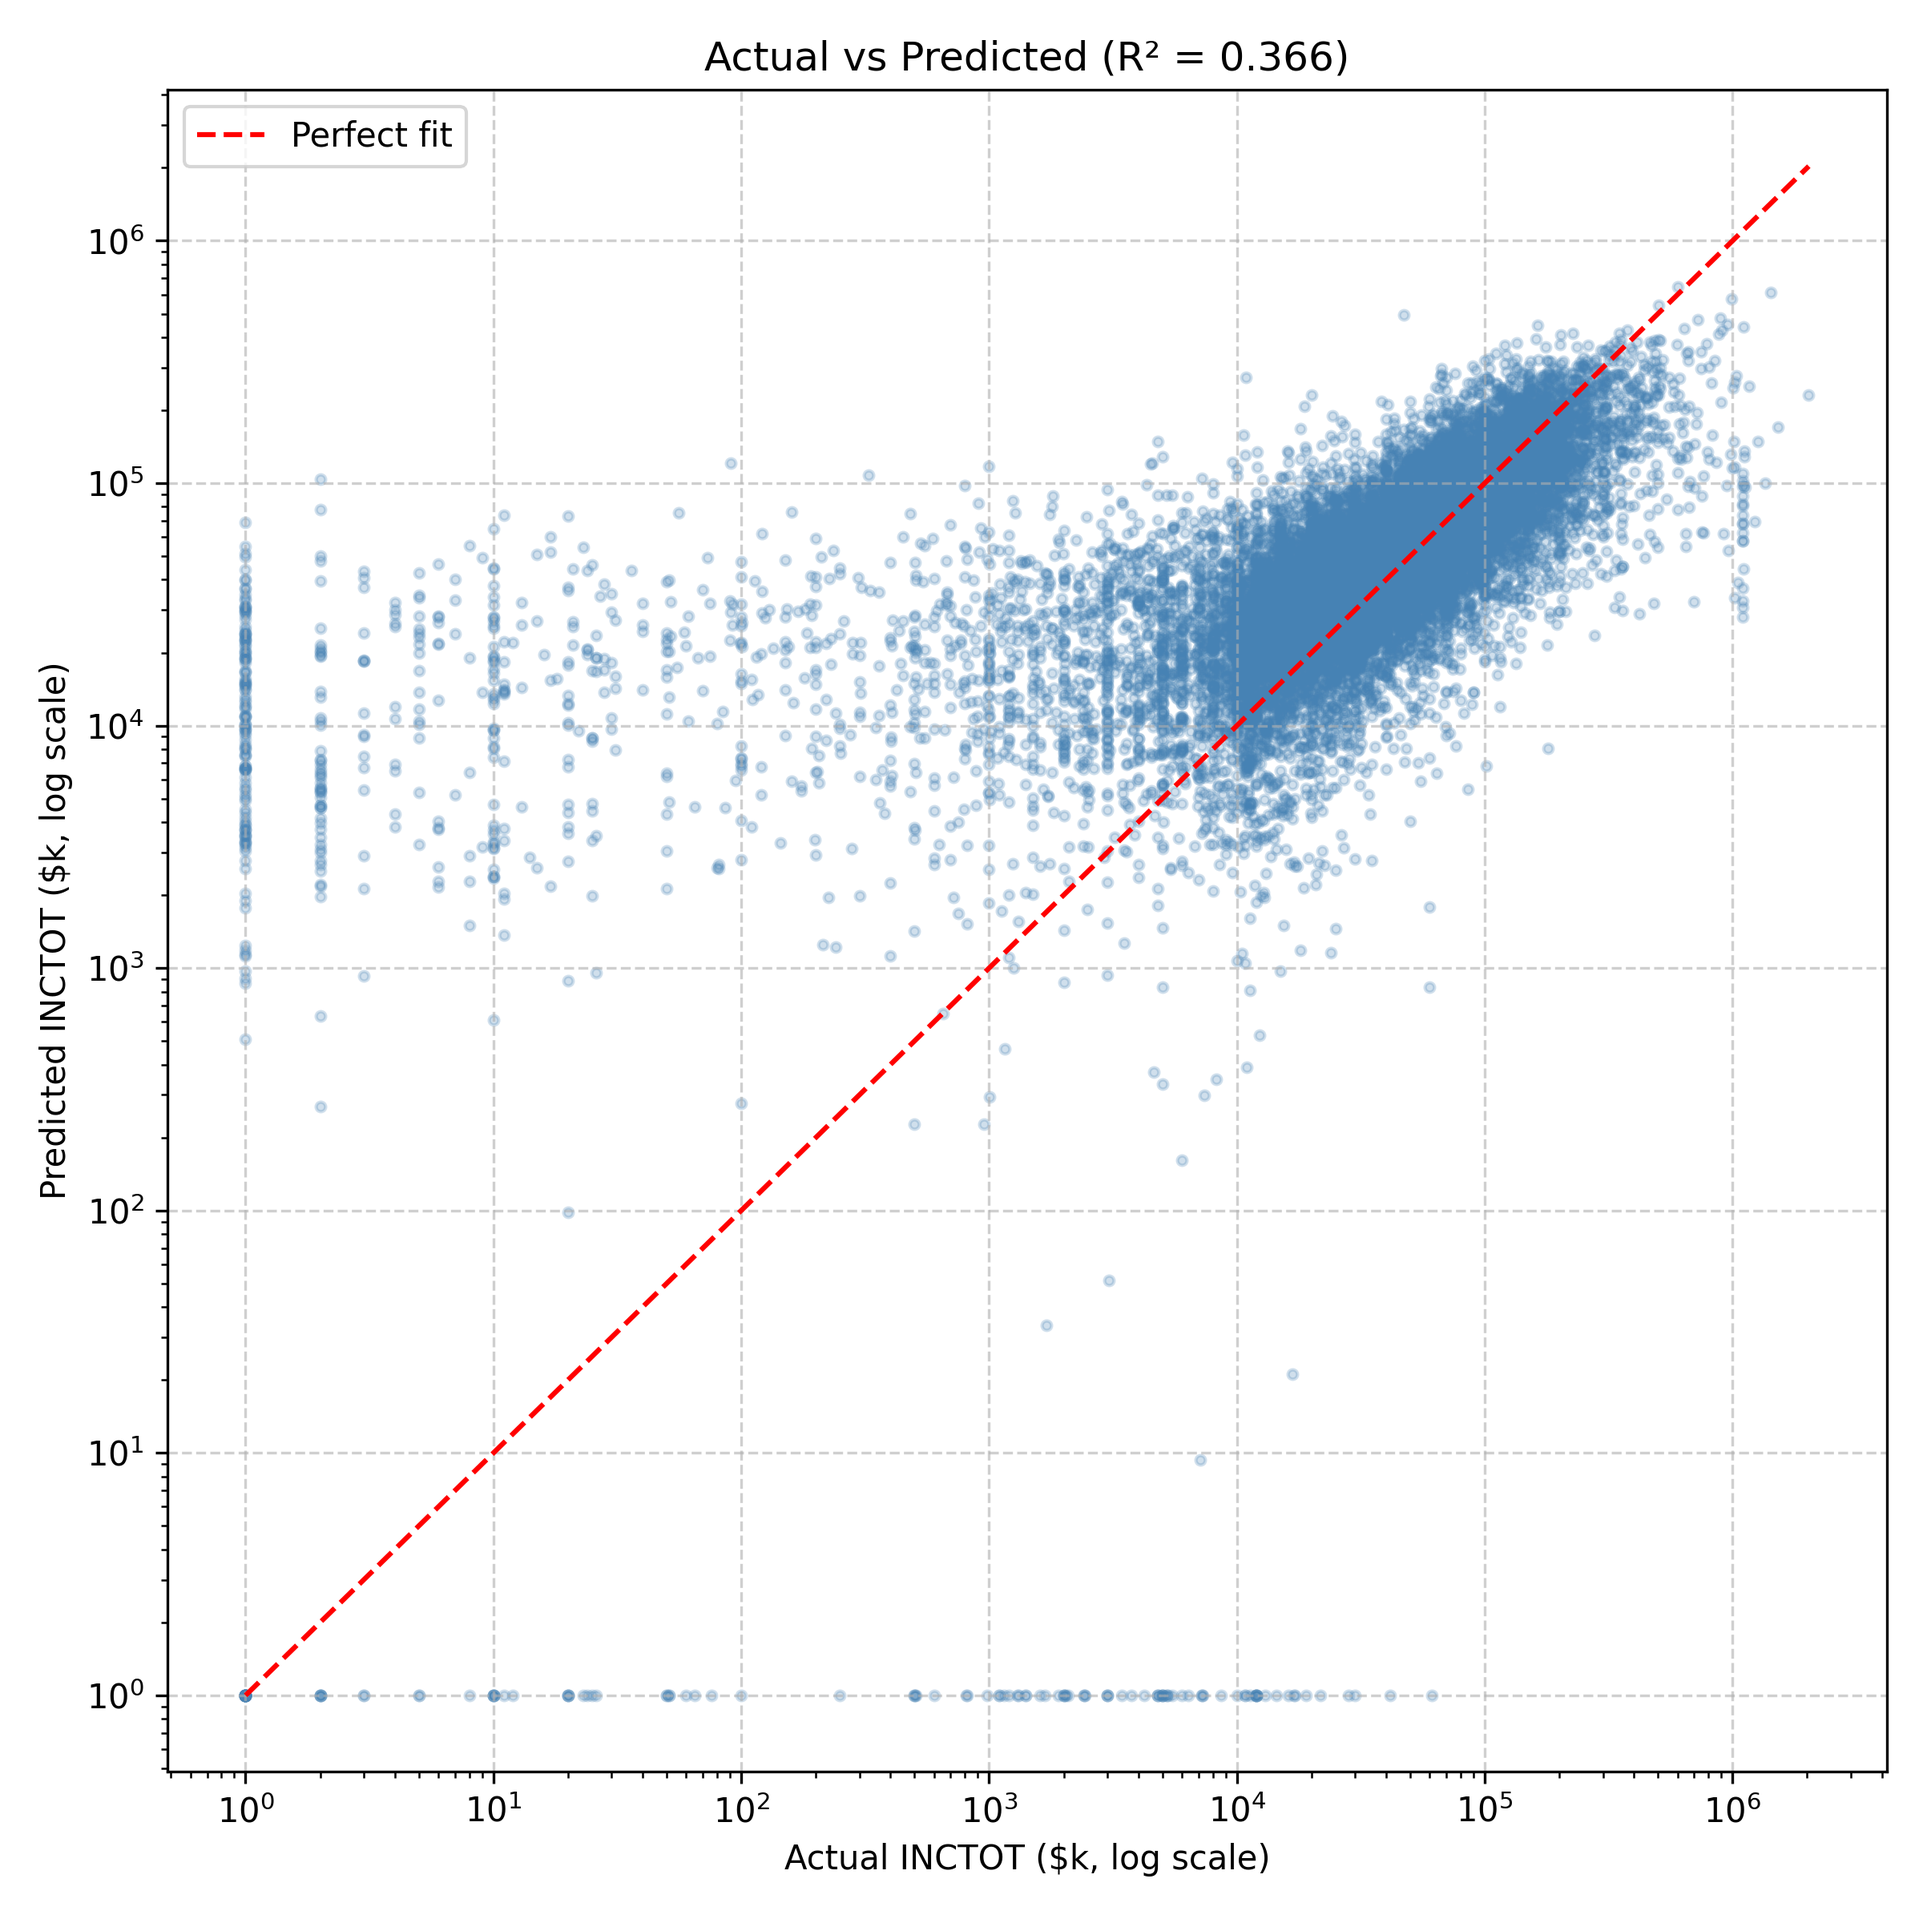
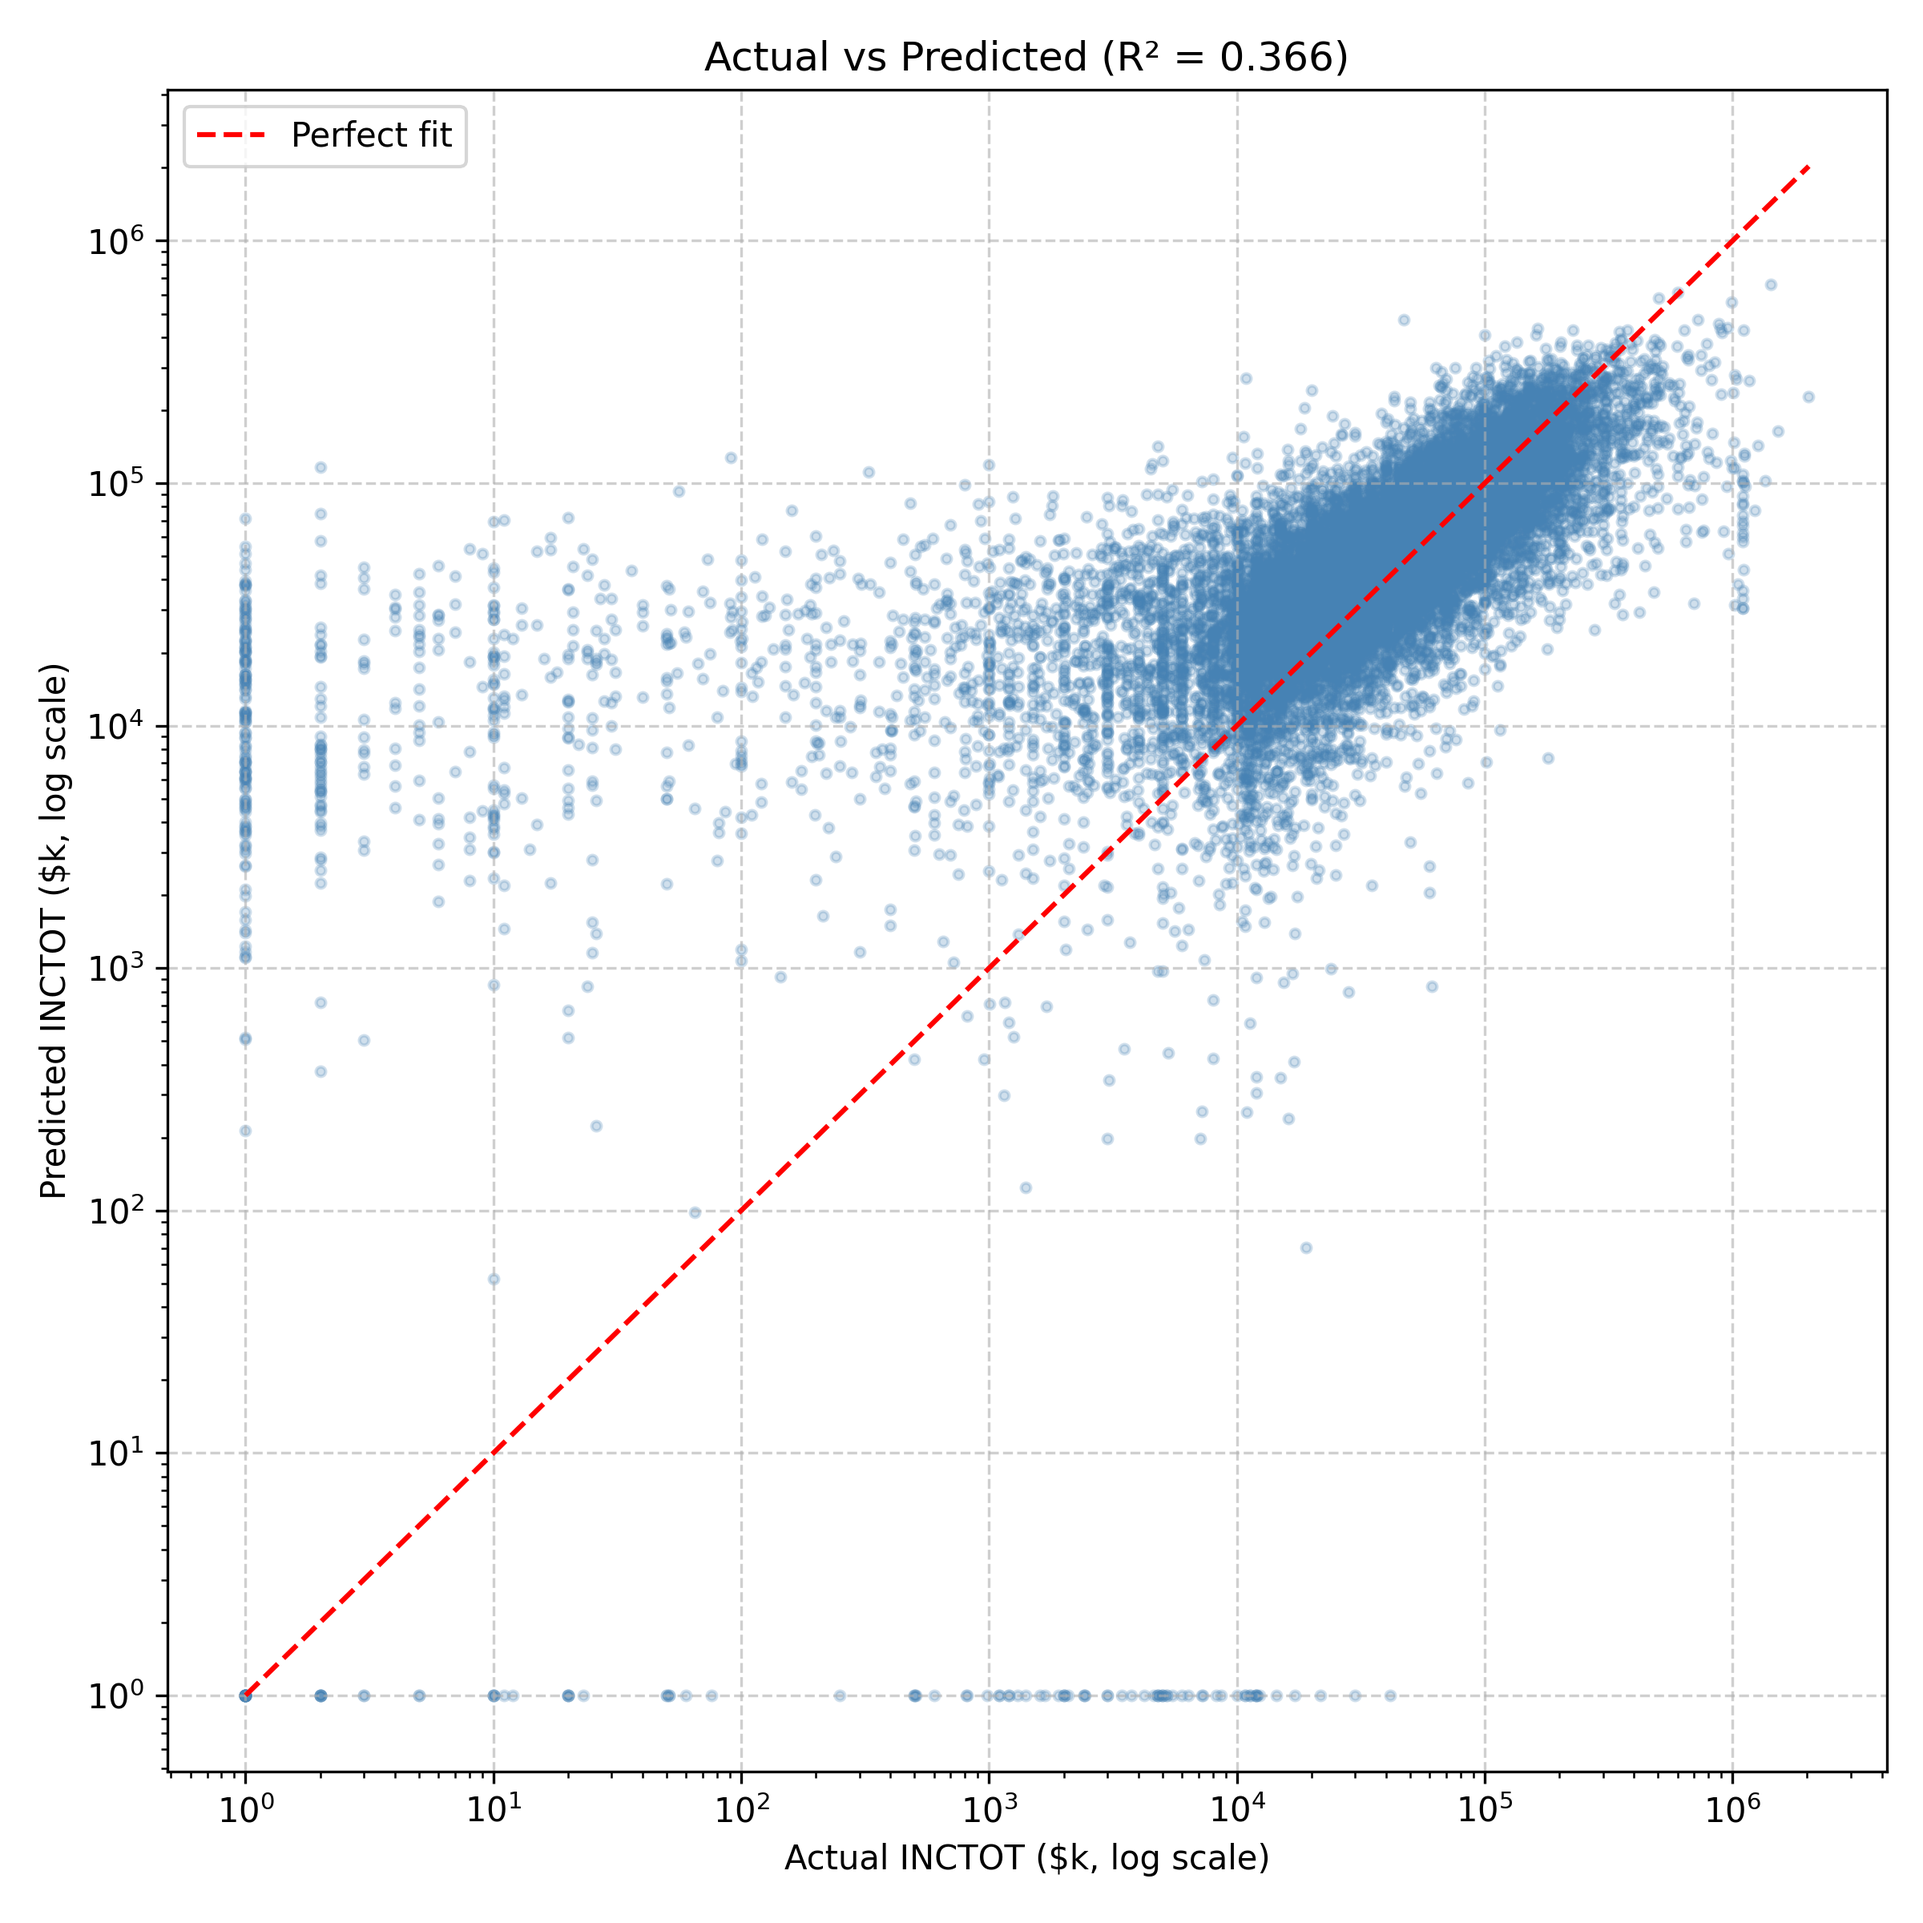
update #3.4 with optuna in readme

Changed region(s): [[0.1562, 0.1562, 0.9375, 0.5938], [0.1562, 0.4375, 0.1875, 0.4688], [0.125, 0.4688, 0.1562, 0.5]]

diff --git a/src/models/model_gb.py b/src/models/model_gb.py
@@ -42,10 +42,11 @@ def train_gradient_boosting(X_train, y_train, n_trials=20):
 
     def objective(trial):
         params = {
-            "n_estimators": trial.suggest_int("n_estimators", 100, 400),
-            "learning_rate": trial.suggest_float("learning_rate", 0.01, 0.1, log=True),
+            "n_estimators": trial.suggest_int("n_estimators", 100, 500),
+            "learning_rate": trial.suggest_float("learning_rate", 0.01, 0.05, log=True),
             "max_depth": trial.suggest_int("max_depth", 2, 4),
         }
+
 
         model = GradientBoostingRegressor(random_state=42, **params)
 

diff --git a/README.md b/README.md
@@ -212,7 +212,9 @@ Where:
 
 **Hyperparameter Tuning (GridSearchCV)**
 
-To improve model performance, we performed hyperparameter tuning using `GridSearchCV` with 3‑fold cross‑validation on the training set (81,864 observations and 47 features). Because income is highly skewed, predictions were evaluated on a **log‑transformed** scale to reduce the influence of extreme outliers.
+We first performed hyperparameter tuning using `GridSearchCV` with 3‑fold cross‑validation on the training set (81,864 observations and 47 features). Because income is highly skewed, all predictions were evaluated on a **log‑transformed scale**.
+
+For visualization consistency across models, we applied a **log10(1 + x)** transformation to both actual and predicted income values. This transformation reduces the influence of extreme outliers and produces clearer, more interpretable plots.
 
 *Search Space*
 
@@ -222,54 +224,52 @@ To improve model performance, we performed hyperparameter tuning using `GridSear
 | learning_rate  | 0.01, 0.03, 0.05, 0.1     |
 | max_depth      | 2, 3, 4                   |
 
-*Optimal Hyperparameter*
+**Hyperparameter Tuning (Optuna)**
 
-| Hyperparameter | Best Value   |
-|----------------|--------------|
-| n_estimators   | 200          |
-| learning_rate  | 0.1          |
-| max_depth      | 4            |
+We then applied `Optuna` to perform a more flexible, continuous search over the hyperparameter space. Unlike `GridSearchCV`, which evaluates a fixed grid, `Optuna` explores the space adaptively and focuses on promising regions. The same **log10(1 + x)** evaluation and visualization strategy was used to ensure comparability across tuning methods.
 
-These values balance model complexity and generalization by allowing deeper interactions while maintaining stable learning dynamics.
+*Search Space*
 
-**Model Performance**
+| Hyperparameter | Value Tested         |
+|----------------|----------------------|
+| n_estimators   | 100–500              | 
+| learning_rate  | 0.01–0.05 (log scale)|
+| max_depth      | 2–4                  |
 
-Using the tuned hyperparameters, the model achieved:
+**Comparison within Gradient Boosting**
 
-- Test MSE: 4.72B
-- Test MAE: 29,766
-- Test R²: 0.3666
+|Parameter/Metric |Baseline GB|Grid GB  |Optuna GB|
+|-----------------|-----------|---------|---------|
+|n_estimators     |300        |200      |385      |
+|learning_rate    |0.05       |0.1      |0.0493   |
+|max_depth        |3          |4        |4        |
+|Test MSE         |4.80B      |4.72B    |4.72B    |
+|Test MAE         |30,158     |29,766   |29,687   |
+|Test R²          |0.3559     |0.3666   |0.3659   | 
+|Computation Time |—          |~10 min  |~14 min  |
 
-**Comparison with Baseline Gradient Boosting**
+Both tuned models (Grid GB and Optuna GB) achieve lower prediction error and higher explanatory power than the baseline model, demonstrating that hyperparameter optimization meaningfully improves Gradient Boosting performance.
 
-|Parameter/Metric|Baseline GB|**Tuned GB**|Description               |
-|----------------|-----------|------------|--------------------------|
-|n_estimators    |300        |200         |fewer but sufficient trees|
-|learning_rate   |0.05       |0.1         |faster learning           |
-|max_depth       |3          |4           |deeper interactions       |
-|Test MSE        |4.80B      |4.72B       |lower error               |
-|Test MAE        |30,158     |29,766      |lower error               |
-|Test R²         |0.3559     |0.3666      |higher R²                 | 
+When comparing Grid GB and Optuna GB, neither model clearly dominates the other. Their performance differences are small, and the results depend heavily on the chosen hyperparameter search space. Expanding or narrowing the search ranges would likely shift the optimal configuration and the resulting metrics. Ultimately, there is a trade‑off between achieving the best possible performance and minimizing computation time.
 
-Top 5 Feature Importance (Baseline GB vs. Tuned GB)
+*Top 5 Feature Importance within Gradient Boosting*
 
-- Both models identify **RETCONT**, **OCC2010**, **EDUC**, and **SEX** as dominant predictors.
+- All Gradient Boosting models identify **RETCONT**, **OCC2010**, **EDUC**, and **SEX** as dominant predictors.
 
-- The tuned model places **AGE** in the top 5 instead of **UHRSWORKT**, reflecting deeper interactions captured by the increased tree depth (`max_depth=4`).
-
-The tuned model provides higher explanatory power and lower average error, indicating that hyperparameter optimization meaningfully improves predictive performance. 
-
-Baseline Gradient Boosting results are included for comparison, but the final model used in this project is the tuned version described above.
+- The tuned models (Grid GB and Optuna GB) include **AGE** in the top 5 instead of **UHRSWORKT**. 
 
 **Comparison with Random Forest**
 
-| Metric | Random Forest  | **Tuned GB**  |Description  |
-|--------|----------------|---------------|-------------|
-| MSE    | 3.25B          | 4.72B         |higher error |
-| MAE    | 32,400         | 29,766        |lower error  |
-| R²     | 0.3310         | 0.3666        |higher R²    |
+| Metric | Random Forest  | **Gradient Boosting**  |Description  |
+|--------|----------------|------------------------|-------------|
+| MSE    | 4.98B          | 4.72B                  |lower error  |
+| MAE    | 31,322         | 29,687                 |lower error  |
+| R²     | 0.3313         | 0.3659                 |higher R²    |
 
-Gradient Boosting exhibits a higher MSE than Random Forest, indicating that it makes larger errors on a small number of very high‑income observations. However, it achieves a lower MAE, meaning that its typical prediction errors are smaller. In addition, Gradient Boosting attains a higher R², suggesting that it explains more of the overall variation in income. This pattern reflects a common trade‑off in boosting models: they reduce average errors and improve explanatory power but remain sensitive to extreme outliers due to their sequential learning structure.
+Gradient Boosting (Optuna) achieves lower MSE and MAE and a higher R² than Random Forest, indicating smaller prediction errors and stronger explanatory power.
+
+For simplicity and clarity, only the Optuna‑based training code and final results are included in the repository, while the baseline model and the GridSearchCV setup are documented here as part of the model development process.
+
 
 **Reduced Feature Analysis**
 
